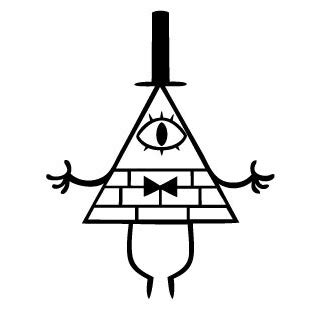
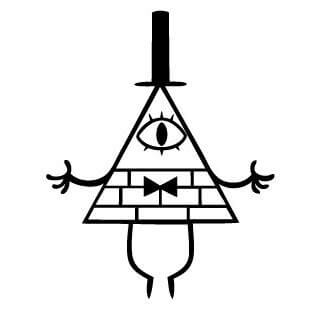
Optimize images

diff --git a/minimage.config.js b/minimage.config.js
@@ -1,13 +1,12 @@
 module.exports = {
+	tinypng_key: "HdFK2dtMXImbRppPXxoeJHvMpKEY8ONS",
 
-    tinypng_key: 'HdFK2dtMXImbRppPXxoeJHvMpKEY8ONS',
+	paths: [
+		"src/assets/img/*.{png,jpg,gif,svg}",
+		"src/assets/img/blog/2015/*.{png,jpg,gif,svg}",
+		"src/assets/img/blog/2020/*.{png,jpg,gif,svg}",
+		"src/assets/img/blog/2021/*.{png,jpg,gif,svg}",
+	],
 
-    paths: [
-        'src/assets/img/*.{png,jpg,gif,svg}',
-        'src/assets/img/blog/2015/*.{png,jpg,gif,svg}',
-        'src/assets/img/blog/2020/*.{png,jpg,gif,svg}',
-    ],
-
-    exclusions: [],
-
-}
+	exclusions: [],
+};
